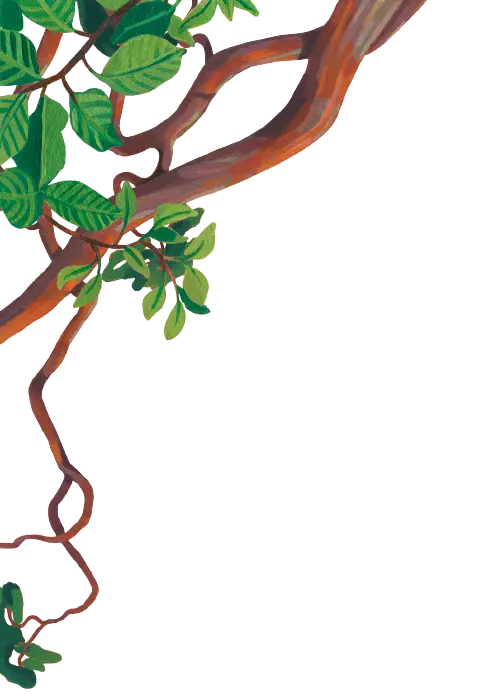
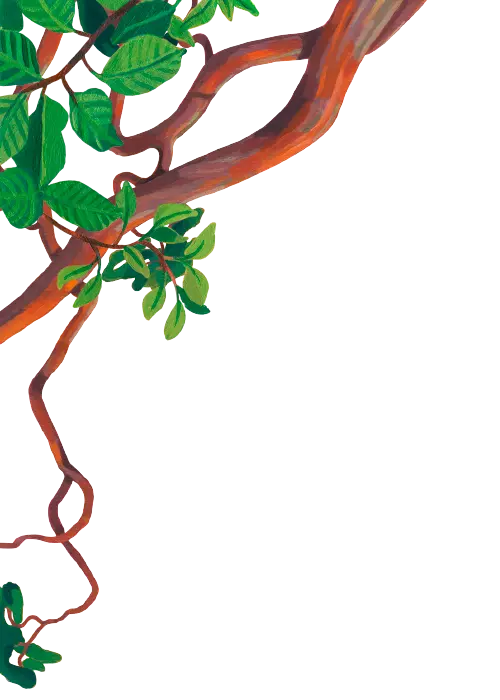
optimized images

diff --git a/layouts/index.html b/layouts/index.html
@@ -92,14 +92,14 @@ Creation Date: 05/20/2019
                 alt="" class="feuillegrise lozad">
             <picture>
                 <source data-srcset="https://res.cloudinary.com/dfxcx0tos/image/upload/v1583423371/feuille_208_mxhnpt.webp" type="image/webp">
-                <img data-src="images/leaves3.png" width="200" alt="" class="feuillegriseleft lozad">
+                <img data-src="images/leaves3.webp" width="200" alt="" class="feuillegriseleft lozad">
                 <picture>
                     <source data-srcset="https://res.cloudinary.com/dfxcx0tos/image/upload/v1583423371/feuille_208_mxhnpt.webp" type="image/webp">
-                    <img data-src="images/leaves3.png" width="200" alt="" class="feuillegriseleft lozad">
+                    <img data-src="images/leaves3.webp" width="200" alt="" class="feuillegriseleft lozad">
                 </picture>
                 <picture>
                     <source data-srcset="https://res.cloudinary.com/dfxcx0tos/image/upload/v1583423371/feuille_208_mxhnpt.webp" type="image/webp">
-                    <img data-src="images/leaves3.png" width="200" alt="" class="feuilleleftbottom lozad">
+                    <img data-src="images/leaves3.webp" width="200" alt="" class="feuilleleftbottom lozad">
                 </picture>
             </picture>
             <!--            <img data-src="images/shapesrightintro.png" width="417" alt="" class="shapeesrightintro lozad">-->
@@ -171,7 +171,7 @@ Creation Date: 05/20/2019
                         <img data-src="https://res.cloudinary.com/dfxcx0tos/image/upload/v1583424853/Feuilles3_iypol4.webp" width="100" alt="" class="lozad leavescenter">
                     </picture>
                    
-                        <img data-src="https://res.cloudinary.com/dxswtxauo/image/upload/w_626/q_auto,f_auto/v1581919375/green_k9caro.jpg" width="626" alt="" class="img-green lozad">
+                        <img data-src="images/green.webp" width="626" alt="" class="img-green lozad">
                    
                 </div>
                 <div id="w-node-48d598a7fe19-feae796a" class="block50 bgwhite padding">
@@ -268,7 +268,7 @@ Creation Date: 05/20/2019
                     width="137" alt="" class="logobottom lozad">
                 <!--<img src="../images/Image-15.png" alt="" class="partnerimg"><img src="../images/Image-14.png" alt="" class="partnerimg"><img src="../images/Image-29.png" alt="" class="partnerimg"><img src="../images/Image-31.png" alt="" class="partnerimg"><img src="../images/Image-23.png" alt="" class="partnerimg"><img src="../images/Image-20.png" alt="" class="partnerimg"><img src="../images/Image-17.png" alt="" class="partnerimg"><img src="../images/Image-13.png" alt="" class="partnerimg"><img src="../images/Image-16.png" alt="" class="partnerimg"><img src="../images/Image-22.png" alt="" class="partnerimg"><img src="../images/Image-18.png" alt="" class="partnerimg"><img src="../images/Image-25.png" alt="" class="partnerimg"><img src="../images/Image-27.png" alt="" class="partnerimg"><img src="../images/Image-19.png" alt="" class="partnerimg"><img src="../images/Image-24.png" alt="" class="partnerimg"><img src="../images/Image-30.png" alt="" class="partnerimg"><img src="../images/minilogoorange.svg" width="137" alt="" class="logobottom"><img src="../images/Image-21.png" alt="" class="partnerimg"><img src="../images/Image-26.png" alt="" class="partnerimg"></div>-->
             </div>
-            <img data-src="/images/bgfooter.png" alt="" class="image-2 lozad"> {{ partial "scripts.html" . }}
+            <img data-src="/images/bgfooter.webp" alt="" class="image-2 lozad"> {{ partial "scripts.html" . }}
         </div>
     </div>
         <script>

diff --git a/layouts/camping/single.html b/layouts/camping/single.html
@@ -15,7 +15,7 @@ j=d.createElement(s),dl=l!='dataLayer'?'&l='+l:'';j.async=true;j.src=
 	<meta name="description" content="{{ .Content | truncate 150 }}" />
   <meta content="{{ .Content | truncate 150 }}" property="og:description">
 	<meta property="og:url" content="https://paradisecity.be{{ .Permalink }}" />
-	<meta property="og:image" content="https://res.cloudinary.com/dxswtxauo/image/upload/w_1200/v1582055237/campingintro_uqmf8s.jpg">
+	<meta property="og:image" content="/images/campingintro.webp">
 	<meta property="og:image:width" content="1200" />
   <meta content="width=device-width, initial-scale=1" name="viewport">
     <link rel="stylesheet" type="text/css" href="/css/camping.css">
@@ -81,9 +81,9 @@ document.write('<iframe src="https://9394108.fls.doubleclick.net/activityi;src=9
     <h1 class="section-intro">Camping</h1>
     <div class="textblock">
       <img class="showdesktop" style="border-radius: 60px;"
-          src="https://res.cloudinary.com/dxswtxauo/image/upload/w_1200/q_auto/f_auto/v1582055237/campingintro_uqmf8s.jpg"
+          src="/images/campingintro.webp"
           class="border" alt="">
-        <img class="hiddendesktop" src="https://res.cloudinary.com/dxswtxauo/image/upload/w_500/q_auto/f_auto/v1582055237/campingintro_uqmf8s.jpg" class="border" alt="">
+        <img class="hiddendesktop" src="/images/campingintro.webp" class="border" alt="">
 		<br><br>
 
       <p class="bold">For campers, Paradise City is more than just a music festival, it is also a camping experience.
@@ -107,7 +107,7 @@ document.write('<iframe src="https://9394108.fls.doubleclick.net/activityi;src=9
 
       <h3 class="marginbottom">1. Own tent and camping equipment</h3>
       <p><img
-          src="https://res.cloudinary.com/dxswtxauo/image/upload/w_1200/q_auto,f_auto/v1582052316/owntent_z87sml.jpg"
+          src="/images/owntent.webp"
           alt="" class="border"></p>
 
 
@@ -127,7 +127,7 @@ document.write('<iframe src="https://9394108.fls.doubleclick.net/activityi;src=9
           <p>Bars</p>
         </div>
         <div class="icones">
-          <img src="/images/water.png" alt="">
+          <img src="/images/water.webp" alt="">
           <p>Fresh Water</p>
         </div>
         <div class="icones">
@@ -135,7 +135,7 @@ document.write('<iframe src="https://9394108.fls.doubleclick.net/activityi;src=9
           <p>Hot Shower</p>
         </div>
         <div class="icones">
-          <img src="/images/wc.png" alt="">
+          <img src="/images/wc.webp" alt="">
           <p>High Quality WC</p>
         </div>
 

diff --git a/layouts/partials/partners.html b/layouts/partials/partners.html
@@ -17,6 +17,6 @@
 			<!--<img src="../images/Image-15.png" alt="" class="partnerimg"><img src="../images/Image-14.png" alt="" class="partnerimg"><img src="../images/Image-29.png" alt="" class="partnerimg"><img src="../images/Image-31.png" alt="" class="partnerimg"><img src="../images/Image-23.png" alt="" class="partnerimg"><img src="../images/Image-20.png" alt="" class="partnerimg"><img src="../images/Image-17.png" alt="" class="partnerimg"><img src="../images/Image-13.png" alt="" class="partnerimg"><img src="../images/Image-16.png" alt="" class="partnerimg"><img src="../images/Image-22.png" alt="" class="partnerimg"><img src="../images/Image-18.png" alt="" class="partnerimg"><img src="../images/Image-25.png" alt="" class="partnerimg"><img src="../images/Image-27.png" alt="" class="partnerimg"><img src="../images/Image-19.png" alt="" class="partnerimg"><img src="../images/Image-24.png" alt="" class="partnerimg"><img src="../images/Image-30.png" alt="" class="partnerimg"><img src="../images/minilogoorange.svg" width="137" alt="" class="logobottom"><img src="../images/Image-21.png" alt="" class="partnerimg"><img src="../images/Image-26.png" alt="" class="partnerimg"></div>-->
 		  
 		  </div>
-		  <img src="/images/bgfooter.png" width="1200" alt="" class="image-2">
+		  <img src="/images/bgfooter.webp" width="1200" alt="" class="image-2">
 		</div>
 

diff --git a/layouts/partials/lightbox.html b/layouts/partials/lightbox.html
@@ -1,4 +1,4 @@
-<a href="#" id="home-lightbox" class="thumbvideo w-inline-block w-lightbox"><img src="https://assets.website-files.com/5c34c1d2a3cd45693156a337/5c3737e2222a7cdd07d42f16_playicon.svg" width="75" alt="" class="playicon"><img src="https://assets.website-files.com/5c34c1d2a3cd45693156a337/5e36b3f27aa7cf6852a63091_thumbvideo.jpg" alt="" class="image"><script type="application/json" class="w-json">{
+<a href="#" id="home-lightbox" class="thumbvideo w-inline-block w-lightbox"><img src="https://assets.website-files.com/5c34c1d2a3cd45693156a337/5c3737e2222a7cdd07d42f16_playicon.svg" width="75" alt="" class="playicon"><img src="/images/thumbvideo.webp" alt="" class="image"><script type="application/json" class="w-json">{
   "items": [
     {
       "type": "video",

diff --git a/assets/css/paradisecity.css b/assets/css/paradisecity.css
@@ -3275,7 +3275,7 @@ input.newsletter-submit:hover, input.newsletter-submit:active {
     background-position: bottom;
     background-size: contain;
     margin-top: -57px;
-    background-image: url(/images/bgheader-mobile.png), linear-gradient(0deg, rgba(239, 156, 121, 1) 0%, rgba(239, 156, 121, 1) 28%, rgba(117, 205, 229, 1) 43%, rgba(117, 205, 229, 1) 57%, rgba(55, 161, 211, 1) 73%, rgba(34, 123, 188, 1) 97%);
+    background-image: url(/images/bgheader-mobile.webp), linear-gradient(0deg, rgba(239, 156, 121, 1) 0%, rgba(239, 156, 121, 1) 28%, rgba(117, 205, 229, 1) 43%, rgba(117, 205, 229, 1) 57%, rgba(55, 161, 211, 1) 73%, rgba(34, 123, 188, 1) 97%);
   }
   .homefixednav {
     height: 0;

diff --git a/layouts/partials/header.html b/layouts/partials/header.html
@@ -83,7 +83,7 @@ document.write('<iframe src="https://9394108.fls.doubleclick.net/activityi;src=9
 
   gtag('config', 'AW-807793275');
 </script>
-<img src="/images/leaves-header-left.png" width="250" alt="" class="uppagebody-left">
+<img src="/images/leaves-header-left.webp" width="250" alt="" class="uppagebody-left">
 
  {{ partial "nav.html" . }}
  <img src="/images/Groupe235.webp" width="250" alt="" class="cloud-right">
